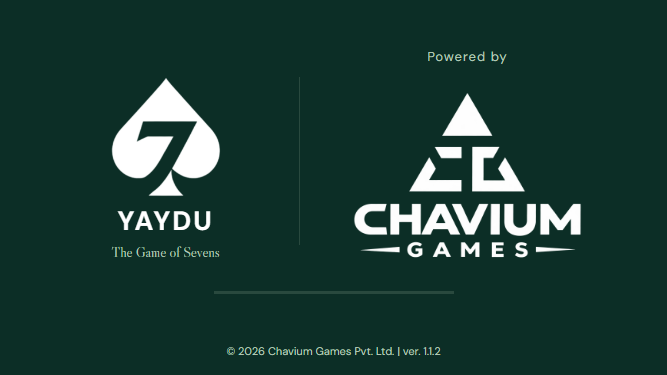
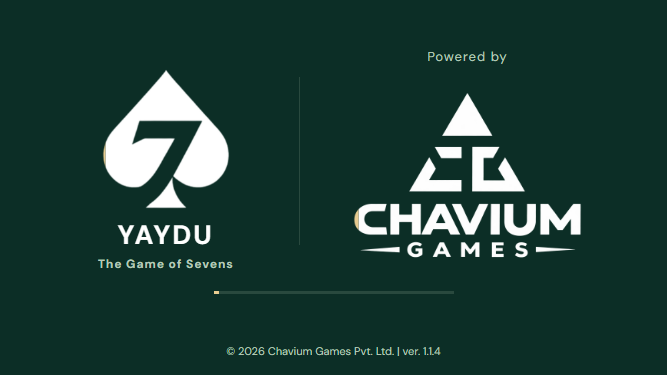
Align the YAYDU brand stack with the Chavium block and restyle the tagline

diff --git a/src/branding.css b/src/branding.css
@@ -6,14 +6,16 @@
 .studio-loading[data-exiting] { opacity: 1; transition: none; }
 .dual-brand { display: grid; grid-template-columns: minmax(0,1fr) 1px minmax(0,1.3fr); align-items: center; gap: clamp(12px,3vw,30px); width: min(620px,88vw,150dvh); flex-shrink: 0; text-align: center; }
 .dual-yaydu, .dual-studio { min-width: 0; display: flex; flex-direction: column; align-items: center; }
-.dual-yaydu .loading-logo { width: 65%; aspect-ratio: 1; }
+/* The YAYDU stack stretches to the Chavium block height; the square logo flexes to fill the leftover space. */
+.dual-yaydu { min-height: 0; align-self: stretch; }
+.dual-yaydu .loading-logo { flex: 1 1 0; min-height: 0; width: auto; aspect-ratio: 1; }
 .dual-brand .studio-logo, [data-mobile-device] .dual-brand .studio-logo { display: block; width: 100%; height: auto; }
 .dual-brand .brand-fill { position: relative; display: block; width: 100%; color: var(--gold); }
 .brand-fill > .brand-unfilled, .brand-fill > .brand-static { display: block; }
 .brand-unfilled { filter: brightness(0) invert(1); }
 .brand-filled { position: absolute; inset: 0; display: block; will-change: clip-path; }
 .yaydu-wordmark { display: block; font-size: clamp(23px,4vw,38px); line-height: 1.1; letter-spacing: .08em; }
-.dual-brand .brand-tagline { margin: 6px 0 0; white-space: nowrap; font-size: clamp(10px,2vw,14px); line-height: 1.4; }
+.dual-brand .brand-tagline { margin: 6px 0 0; white-space: nowrap; font: 700 clamp(9px,1.3vw,12px)/1.4 'DM Sans',sans-serif; letter-spacing: .08em; }
 .brand-separator { display: block; width: 1px; height: 75%; min-height: 80px; background: var(--border); }
 .dual-studio .powered-by { margin: 0 0 10px; color: var(--muted); font-size: clamp(11px,2vw,13px); letter-spacing: .08em; line-height: 1.3; }
 .chavium-logo { display: block; width: 100%; height: auto; aspect-ratio: 3 / 2; }
@@ -22,7 +24,6 @@
 .brand-copyright { position: absolute; left: max(12px,env(safe-area-inset-left)); right: max(12px,env(safe-area-inset-right)); bottom: max(16px,env(safe-area-inset-bottom)); color: var(--muted); text-align: center; font: 400 11px/1.4 'DM Sans',sans-serif; }
 .orientation-guard[open] { gap: 20px; padding-bottom: max(52px,env(safe-area-inset-bottom)); }
 .orientation-guard .dual-brand p { max-width: none; }
-.orientation-guard .dual-brand .brand-tagline { font-size: clamp(10px,2vw,14px); }
 [data-mobile-device] .startup-screen.studio-loading { gap: 18px; padding: max(12px,env(safe-area-inset-top)) max(16px,env(safe-area-inset-right)) max(44px,env(safe-area-inset-bottom)) max(16px,env(safe-area-inset-left)); }
 @media (max-height: 600px) {
   .orientation-guard[open] { gap: 12px; }

diff --git a/e2e/dual-brand.spec.ts b/e2e/dual-brand.spec.ts
@@ -25,7 +25,7 @@ test('three artwork layers share zero, midpoint and full progress; captions stay
   const loading=page.locator('.startup-screen'), fills=loading.locator('.brand-fill')
   await expect(loading).toHaveAttribute('data-ready','true')
   await expect(fills).toHaveCount(3)
-  const copyright=loading.getByText('© 2026 Chavium Games Pvt. Ltd.',{exact:true})
+  const copyright=loading.getByText(/© 2026 Chavium Games Pvt\. Ltd\./)
   await expect(copyright).toBeVisible()
   const position=await copyright.boundingBox()
   for (const [advance, expected] of [[0,0],[1500,.5],[1600,1]]) {

diff --git a/src/app-mobile.css b/src/app-mobile.css
@@ -495,4 +495,4 @@ html:has([data-mobile-device]), body:has([data-mobile-device]) { width: 100%; he
 [data-mobile-device] .active-game .eligible-pickup.button { height: 44px; }
 
 [data-mobile-device] .startup-brand-name { font-size: 24px; }
-[data-mobile-device] .studio-loading .brand-tagline { font-size: 14px; }
+[data-mobile-device] .studio-loading .brand-tagline { font-size: 12px; }

diff --git a/ChangeLog.md b/ChangeLog.md
@@ -8,6 +8,14 @@ All notable changes to YAYDU (`least-count`) are documented here.
 - From 12 November 2026 onward, versions follow **`1.1.x`**. Each change set that ships to `main` increments the patch number (`1.1.1`, `1.1.2`, …). `package.json` carries the current version.
 - Development before this scheme ran as a single `0.1.0` prototype and is summarized below by milestone.
 
+## 1.1.4 — 2026-11-12
+
+- **Brand screens:** on the loading, rotation-guard, and update screens the tagline ("The Game of Sevens") now uses the same DM Sans 700 style and letter-spacing as the YAYDU wordmark, sized much smaller so it sits neatly beneath it.
+- **Brand alignment:** the whole YAYDU stack (logo + wordmark + tagline) now stretches to exactly the same height as the "Powered by" + Chavium Games block, with top and bottom edges aligned; the square YAYDU logo flexes to fill the leftover vertical space (`branding.css`).
+- **Test fix:** `dual-brand.spec.ts` now matches the copyright line by pattern instead of exact text, fixing a failure introduced when 1.1.2 appended the version to it.
+- **Verification:** typecheck, 330 unit tests, the dual-brand, orientation-guard, and Lounge e2e suites, and visual screenshot review of all three screens pass. The remaining e2e failures (`dual-brand` route-cover flow, `android` touch play ×4 and resume, `app-layout` keyboard signup and ranking pages, `ux-audit` public profile, `lounge-navigation` ×3) were each confirmed failing on clean `main` and are pre-existing.
+- **Documentation screenshots:** `docs/mobile-layout/*` refreshed by the app-layout audit with the new brand presentation.
+
 ## 1.1.3 — 2026-11-12
 
 - **Lounge buttons:** the gold buttons in the Create Game Room and Join Game Room cards now have centered text, and their labels changed to **"Set the Table"** and **"Take a Seat"** (card headings stay "Create Game Room" / "Join Game Room"). All e2e specs that click these buttons by name were updated to the new labels.
